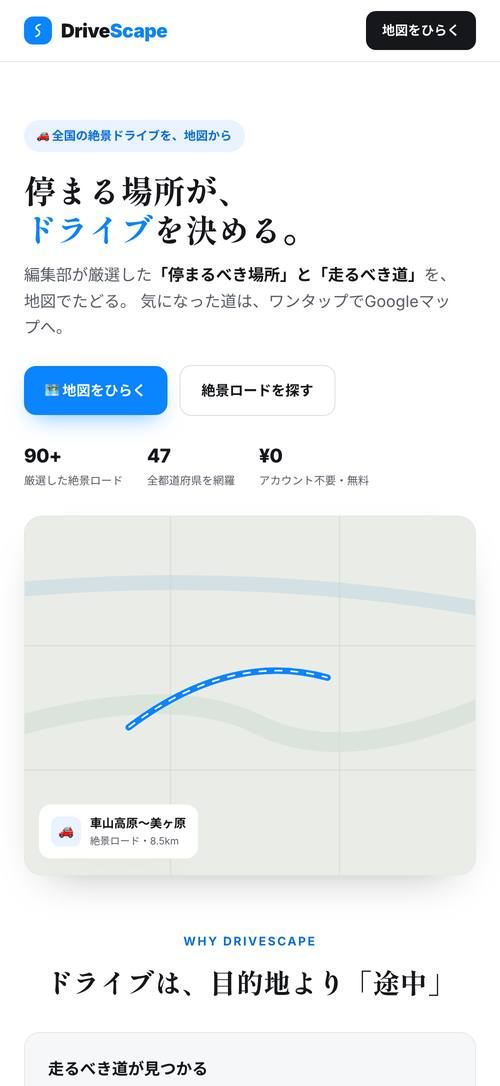
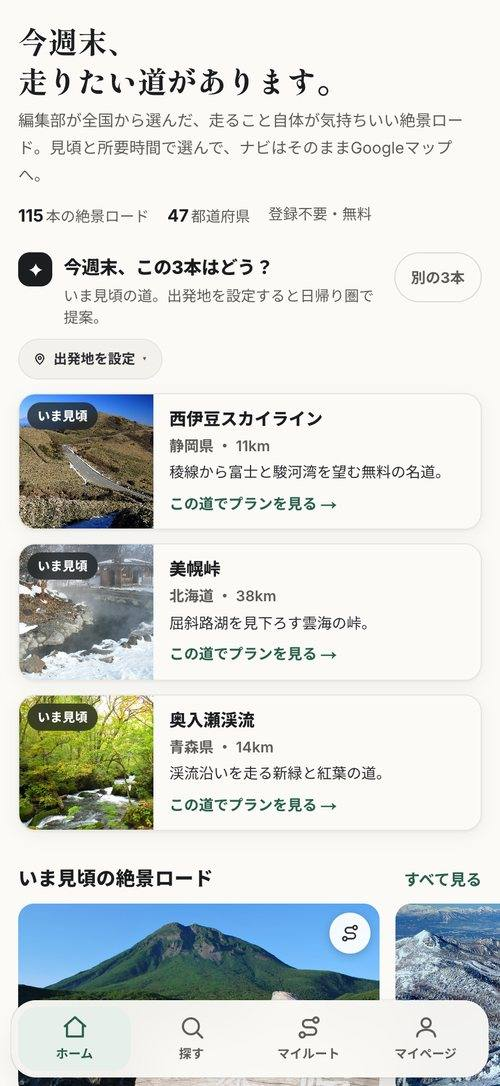
DriveScape: 紹介ページの画面を 10-30 のトップ統合後のものに撮り直し、スポット重視の古い文言を道が主役の表現に
- 画面欄: ホーム・探す・地図・道の詳細（v4）。ヒーローとトップ一覧のサムネも更新。旧 v2 画像は削除
- 見出し「停まる場所が、ドライブを決める」→「走りたくなる道を、全国から」。説明文・OG・構造化データ・FAQ も同様に
- 「停まるべき場所が分かる」「立ち寄ったスポットを記録」（投稿は休止中）を、見頃と所要時間で選べる・走った道を残す、に差し替え。AI 計画の説明を今の機能（アプリ内で行程を組む）に合わせる
- サイトマップの画像と更新日

diff --git a/drivescape.html b/drivescape.html
@@ -4,20 +4,20 @@
 <meta charset="UTF-8">
 <meta name="viewport" content="width=device-width, initial-scale=1.0">
 <title>DriveScape｜全国の絶景ドライブを地図から探す Web サービス</title>
-<meta name="description" content="DriveScape は、編集部が厳選した「停まるべき場所」と「走るべき道」を地図でたどる絶景ドライブの Web サービス。気になった道はワンタップで Google マップへ。アカウント不要・まず無料で。">
+<meta name="description" content="DriveScape は、編集部が全国から選んだ絶景ロードを、いま見頃かどうかと所要時間で選べる Web サービス。気になった道はワンタップで Google マップへ。アカウント不要・無料。">
 <link rel="canonical" href="https://pohoda.jp/drivescape.html">
 <meta name="theme-color" content="#ffffff">
 <meta property="og:type" content="website">
 <meta property="og:site_name" content="Pohoda">
 <meta property="og:locale" content="ja_JP">
-<meta property="og:title" content="DriveScape｜停まる場所が、ドライブを決める。">
+<meta property="og:title" content="DriveScape｜走りたくなる道を、全国から。">
 <meta property="og:description" content="全国の絶景ドライブを地図から探す Web サービス。気になった道はワンタップで Google マップへ。">
 <meta property="og:url" content="https://pohoda.jp/drivescape.html">
 <meta property="og:image" content="https://pohoda.jp/assets/og/og-drivescape.png">
 <meta property="og:image:width" content="1200">
 <meta property="og:image:height" content="630">
 <meta name="twitter:card" content="summary_large_image">
-<meta name="twitter:title" content="DriveScape｜停まる場所が、ドライブを決める。">
+<meta name="twitter:title" content="DriveScape｜走りたくなる道を、全国から。">
 <meta name="twitter:description" content="全国の絶景ドライブを地図から探す Web サービス。ナビは Google マップ。">
 <meta name="twitter:image" content="https://pohoda.jp/assets/og/og-drivescape.png">
 <link rel="icon" href="/favicon.ico?v=3" sizes="any">
@@ -35,14 +35,14 @@
   "url": "https://pohoda.jp/drivescape.html",
   "downloadUrl": "https://drivescape.pohoda.jp/",
   "image": "https://pohoda.jp/assets/og/og-drivescape.png",
-  "description": "編集部が厳選した絶景ロードとスポットを地図で探し、Google マップでナビする絶景ドライブの Web サービス。",
+  "description": "編集部が全国から選んだ絶景ロードを見頃と所要時間で探し、Google マップでナビする絶景ドライブの Web サービス。",
   "inLanguage": "ja",
   "offers": { "@type": "Offer", "price": "0", "priceCurrency": "JPY" },
   "author": { "@type": "Organization", "name": "Pohoda", "url": "https://pohoda.jp/" }
 }
 </script>
 <script type="application/ld+json">
-{"@context": "https://schema.org", "@type": "FAQPage", "mainEntity": [{"@type": "Question", "name": "DriveScape とは何ですか？", "acceptedAnswer": {"@type": "Answer", "text": "編集部が厳選した絶景ロードとスポットを地図から探し、Google マップでナビする絶景ドライブの Web サービスです。"}}, {"@type": "Question", "name": "無料で使えますか？", "acceptedAnswer": {"@type": "Answer", "text": "アカウント登録なしで無料で使えます。広告と提携先への送客によって運営しています。"}}, {"@type": "Question", "name": "ナビはどうなっていますか？", "acceptedAnswer": {"@type": "Answer", "text": "自前のナビは作らず、地点を Google マップに渡して案内します。地図表示も道案内も、ご利用に追加料金はかかりません。"}}, {"@type": "Question", "name": "スマホで使えますか？", "acceptedAnswer": {"@type": "Answer", "text": "はい。ホーム画面に追加すれば、全画面のアプリのように使えます（PWA）。"}}, {"@type": "Question", "name": "データはどこに保存されますか？", "acceptedAnswer": {"@type": "Answer", "text": "保存したスポットやマイルートはお使いのブラウザの中に保存されます。投稿機能は現在お休み中です。"}}]}
+{"@context": "https://schema.org", "@type": "FAQPage", "mainEntity": [{"@type": "Question", "name": "DriveScape とは何ですか？", "acceptedAnswer": {"@type": "Answer", "text": "編集部が全国から選んだ絶景ロードを、見頃と所要時間で探し、Google マップでナビする絶景ドライブの Web サービスです。"}}, {"@type": "Question", "name": "無料で使えますか？", "acceptedAnswer": {"@type": "Answer", "text": "アカウント登録なしで無料で使えます。広告と提携先への送客によって運営しています。"}}, {"@type": "Question", "name": "ナビはどうなっていますか？", "acceptedAnswer": {"@type": "Answer", "text": "自前のナビは作らず、地点を Google マップに渡して案内します。地図表示も道案内も、ご利用に追加料金はかかりません。"}}, {"@type": "Question", "name": "スマホで使えますか？", "acceptedAnswer": {"@type": "Answer", "text": "はい。ホーム画面に追加すれば、全画面のアプリのように使えます（PWA）。"}}, {"@type": "Question", "name": "データはどこに保存されますか？", "acceptedAnswer": {"@type": "Answer", "text": "保存した道やマイルートはお使いのブラウザの中に保存されます。投稿機能は現在お休み中です。"}}]}
 </script>
 <script type="application/ld+json">
 {"@context": "https://schema.org", "@type": "BreadcrumbList", "itemListElement": [{"@type": "ListItem", "position": 1, "name": "ホーム", "item": "https://pohoda.jp/"}, {"@type": "ListItem", "position": 2, "name": "DriveScape", "item": "https://pohoda.jp/drivescape.html"}]}
@@ -68,8 +68,8 @@
     <div class="wrap">
       <div class="cat-copy">
         <div class="app-id"><img class="app-icon" src="./assets/drivescape-icon.png" alt="DriveScape アイコン" width="44" height="44"><span>DriveScape</span></div>
-        <h1>停まる場所が、<wbr>ドライブを決める。</h1>
-        <p class="lead">編集部が厳選した「停まるべき場所」と「走るべき道」を、地図でたどる。気になった道は、ワンタップで Google マップへ。全国の絶景ドライブを、アカウント登録なしで、まず無料で。</p>
+        <h1>走りたくなる道を、<wbr>全国から。</h1>
+        <p class="lead">編集部が全国から選んだ、走ること自体が気持ちいい絶景ロード。いま見頃かどうかと所要時間で選んで、ナビはワンタップで Google マップへ。アカウント登録なしで、無料で使えます。</p>
         <div class="btn-row">
         <a class="btn btn-primary" href="https://drivescape.pohoda.jp/" target="_blank" rel="noopener">無料でひらく</a>
       </div>
@@ -88,9 +88,10 @@
     <div class="wrap">
       <div class="section-label">画面</div>
       <div class="shots">
-        <img src="./assets/screens/drivescape-v2-home.jpg" alt="DriveScape ホーム画面" width="880" height="1911" loading="lazy">
-        <img src="./assets/screens/drivescape-v2-explore.jpg" alt="DriveScape 絶景ロードを探す画面" width="880" height="1911" loading="lazy">
-        <img src="./assets/screens/drivescape-v2-planner.jpg" alt="DriveScape AI プランナー画面" width="880" height="1911" loading="lazy">
+        <img src="./assets/screens/drivescape-v4-home.jpg" alt="DriveScape ホーム画面" width="880" height="1911" loading="lazy">
+        <img src="./assets/screens/drivescape-v4-explore.jpg" alt="DriveScape 絶景ロードを探す画面" width="880" height="1911" loading="lazy">
+        <img src="./assets/screens/drivescape-v4-map.jpg" alt="DriveScape 地図で絶景ロードを見る画面" width="880" height="1911" loading="lazy">
+        <img src="./assets/screens/drivescape-v4-detail.jpg" alt="DriveScape 絶景ロードの詳細画面" width="880" height="1911" loading="lazy">
       </div>
     </div>
   </section>
@@ -106,8 +107,8 @@
           <p>「走ること自体が気持ちいい」絶景ロードを、編集部の目安の評価とともに地図で発見。目的地ではなく、途中を選べます。</p>
         </div>
         <div class="feature">
-          <h3><span class="dot"></span>停まるべき場所が分かる</h3>
-          <p>展望台・撮影ポイント・立ち寄りグルメ。「ここで停まると、これが見える」を、写真と一言で確かめられます。</p>
+          <h3><span class="dot"></span>見頃と所要時間で選べる</h3>
+          <p>全国の絶景ロードを、いま見頃かどうか・エリア・道の種類で絞り込み。距離・所要時間・通行料金も一目で分かります。</p>
         </div>
         <div class="feature">
           <h3><span class="dot"></span>ナビは Google マップ</h3>
@@ -118,12 +119,12 @@
           <p>行きたい地点を並べ替えて、最大 10 か所を一度に Google マップへ。経由地つきで、ルート全体を案内できます。</p>
         </div>
         <div class="feature">
-          <h3><span class="dot"></span>走った記録を残す</h3>
-          <p>立ち寄ったスポットや現地メモ、写真を記録。走破録にチェックインして、自分だけの地図を育てます。</p>
+          <h3><span class="dot"></span>走った道を残す</h3>
+          <p>走った道にチェックインすると、走破録に残ります。気になる道は保存して、あとから見返せます。</p>
         </div>
         <div class="feature">
           <h3><span class="dot"></span>AI でドライブを計画</h3>
-          <p>出発エリアや気分を選ぶと、お使いの AI に貼れる質問文を生成。1 日の行程をまるごと提案してもらえます。</p>
+          <p>出発地と気分を選ぶと、AI がその道までの日帰りの行程を組み立てます。今週末に走りたい 3 本のおすすめも。</p>
         </div>
       </div>
     </div>
@@ -135,11 +136,11 @@
     <div class="wrap narrow">
       <div class="section-label">料金</div>
       <h2>まずは無料で、地図から。</h2>
-      <p class="lead" style="margin-bottom:34px;">アカウント登録なしで、絶景ロードとスポットを地図から探せます。DriveScape は、広告と提携先への送客によって運営する<strong style="color:var(--ink)">無料</strong>のサービスです。ナビは Google マップを使うため、地図表示も道案内も、ご利用に追加料金はかかりません。</p>
+      <p class="lead" style="margin-bottom:34px;">アカウント登録なしで、全国の絶景ロードを探せます。DriveScape は、広告と提携先への送客によって運営する<strong style="color:var(--ink)">無料</strong>のサービスです。ナビは Google マップを使うため、地図表示も道案内も、ご利用に追加料金はかかりません。</p>
       <div class="features">
         <div class="feature">
           <h3><span class="dot"></span>アカウント不要で試せる</h3>
-          <p>登録なしで、探す・記録するをすぐに。気に入ったら、そのまま使い続けられます。</p>
+          <p>登録なしで、探す・保存するをすぐに。気に入ったら、そのまま使い続けられます。</p>
         </div>
         <div class="feature">
           <h3><span class="dot"></span>ナビは追加料金なし</h3>
@@ -163,7 +164,7 @@
     <div class="wrap narrow">
       <div class="section-label">プライバシー</div>
       <h2>記録は、まずあなたのブラウザの中に。</h2>
-      <p class="lead">保存したスポットやマイルートは、お使いのブラウザの中に保存されます。投稿機能は現在お休み中です（再開する際はプライバシーポリシーを更新のうえ告知します）。DriveScape は広告・送客で運営する無料サービスです。広告や提携先を導入する際に利用するサービスや、情報の取り扱いは、プライバシーポリシーに明記します。詳しくは DriveScape の <a href="https://drivescape.pohoda.jp/legal/privacy" target="_blank" rel="noopener">プライバシーポリシー</a> ・ <a href="https://drivescape.pohoda.jp/legal/terms" target="_blank" rel="noopener">利用規約</a> をご覧ください。</p>
+      <p class="lead">保存した道やマイルートは、お使いのブラウザの中に保存されます。投稿機能は現在お休み中です（再開する際はプライバシーポリシーを更新のうえ告知します）。DriveScape は広告・送客で運営する無料サービスです。広告や提携先を導入する際に利用するサービスや、情報の取り扱いは、プライバシーポリシーに明記します。詳しくは DriveScape の <a href="https://drivescape.pohoda.jp/legal/privacy" target="_blank" rel="noopener">プライバシーポリシー</a> ・ <a href="https://drivescape.pohoda.jp/legal/terms" target="_blank" rel="noopener">利用規約</a> をご覧ください。</p>
     </div>
   </section>
 
@@ -173,11 +174,11 @@
     <div class="wrap narrow">
       <div class="section-label">よくある質問</div>
       <div class="faq">
-        <details><summary>DriveScape とは何ですか？</summary><p>編集部が厳選した絶景ロードとスポットを地図から探し、Google マップでナビする絶景ドライブの Web サービスです。</p></details>
+        <details><summary>DriveScape とは何ですか？</summary><p>編集部が全国から選んだ絶景ロードを、見頃と所要時間で探し、Google マップでナビする絶景ドライブの Web サービスです。</p></details>
         <details><summary>無料で使えますか？</summary><p>アカウント登録なしで無料で使えます。広告と提携先への送客によって運営しています。</p></details>
         <details><summary>ナビはどうなっていますか？</summary><p>自前のナビは作らず、地点を Google マップに渡して案内します。地図表示も道案内も、ご利用に追加料金はかかりません。</p></details>
         <details><summary>スマホで使えますか？</summary><p>はい。ホーム画面に追加すれば、全画面のアプリのように使えます（PWA）。</p></details>
-        <details><summary>データはどこに保存されますか？</summary><p>保存したスポットやマイルートはお使いのブラウザの中に保存されます。投稿機能は現在お休み中です。</p></details>
+        <details><summary>データはどこに保存されますか？</summary><p>保存した道やマイルートはお使いのブラウザの中に保存されます。投稿機能は現在お休み中です。</p></details>
       </div>
     </div>
   </section>
